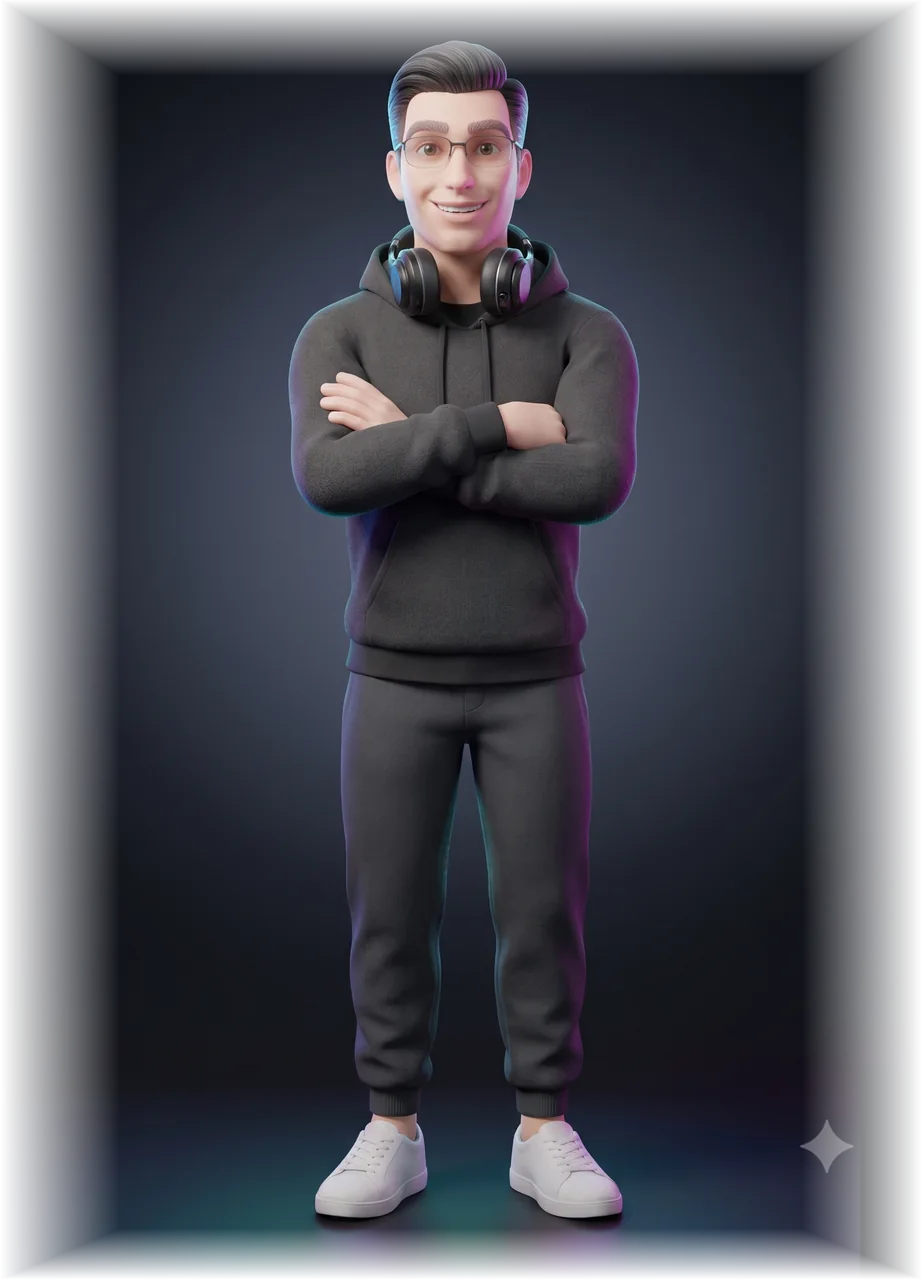
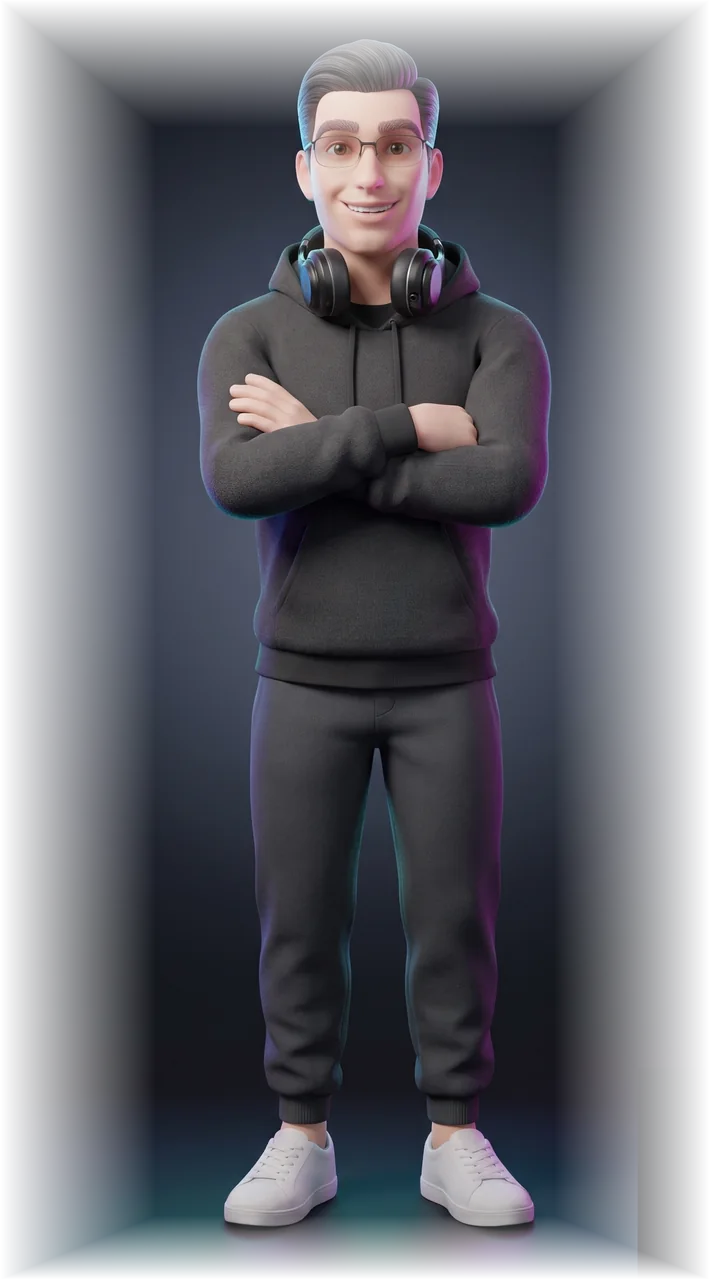
Blend characters seamlessly into the page (kill the box)
- Re-process the updated, darker character renders.
- Stronger edge feather (fx .13 -> .22) so the backdrop melts into the page and
  the IDE grid continues around the figure instead of a visible rectangle.
- Brighter character glow so the dark figures still read against the dark page
  now that the backdrops match it.

diff --git a/src/index.css b/src/index.css
@@ -137,12 +137,12 @@ section[id] {
     inset: 8% 2% 2% 2%;
     border-radius: 50%;
     background: radial-gradient(
-      50% 55% at 50% 45%,
-      rgba(77, 139, 255, 0.22),
-      rgba(198, 92, 255, 0.14) 55%,
-      transparent 75%
+      52% 58% at 50% 42%,
+      rgba(77, 139, 255, 0.34),
+      rgba(198, 92, 255, 0.22) 55%,
+      transparent 76%
     );
-    filter: blur(28px);
+    filter: blur(30px);
     z-index: -1;
     pointer-events: none;
   }

diff --git a/scripts/process-characters.py b/scripts/process-characters.py
@@ -45,8 +45,8 @@ def paint_out_watermark(img: Image.Image) -> Image.Image:
     return img
 
 
-def feather_edges(img: Image.Image, fx: float = 0.13, fy_top: float = 0.04,
-                  fy_bot: float = 0.06) -> Image.Image:
+def feather_edges(img: Image.Image, fx: float = 0.22, fy_top: float = 0.05,
+                  fy_bot: float = 0.10) -> Image.Image:
     """Fade the outer edges to transparent so the dark backdrop melts into the
     page instead of showing as a rectangle. Keeps the centre (character) opaque."""
     img = img.convert("RGBA")
